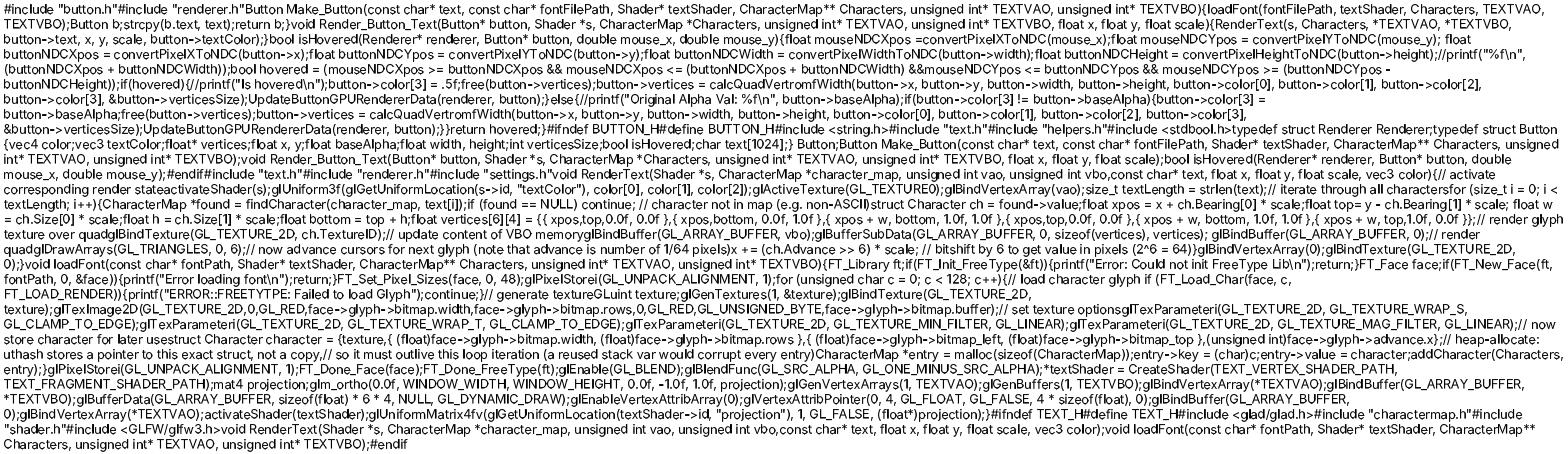
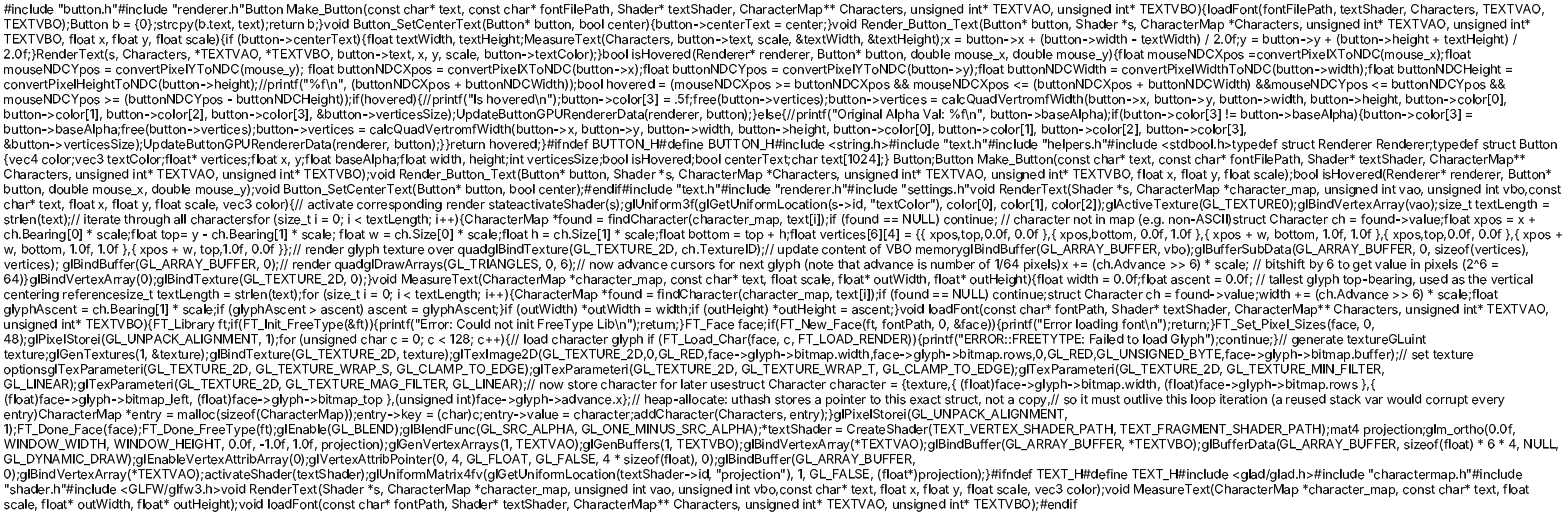
initial

diff --git a/src/button.h b/src/button.h
@@ -25,5 +25,6 @@ Button Make_Button(const char* text, const char* fontFilePath, Shader* textShade
 void Render_Button_Text(Button* button, Shader *s, CharacterMap *Characters, unsigned int* TEXTVAO, unsigned int* TEXTVBO, float x, float y, float scale);
 bool isHovered(Renderer* renderer, Button* button, double mouse_x, double mouse_y);
 void Button_SetCenterText(Button* button, bool center);
+void Button_SetFont(Button* button, const char* fontFilePath, Shader* textShader, CharacterMap** Characters, unsigned int* TEXTVAO, unsigned int* TEXTVBO);
 
 #endif

diff --git a/src/button.c b/src/button.c
@@ -16,6 +16,12 @@ void Button_SetCenterText(Button* button, bool center)
 }
 
 
+void Button_SetFont(Button* button, const char* fontFilePath, Shader* textShader, CharacterMap** Characters, unsigned int* TEXTVAO, unsigned int* TEXTVBO)
+{
+    loadFont(fontFilePath, textShader, Characters, TEXTVAO, TEXTVBO);
+}
+
+
 void Render_Button_Text(Button* button, Shader *s, CharacterMap *Characters, unsigned int* TEXTVAO, unsigned int* TEXTVBO, float x, float y, float scale)
 {
     if (button->centerText)
